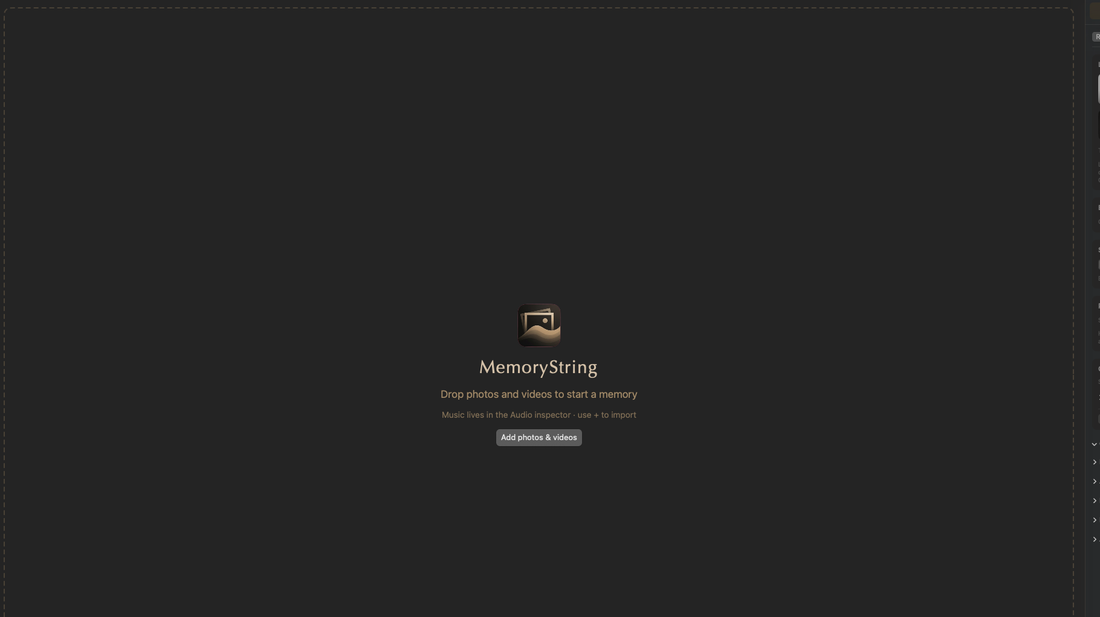
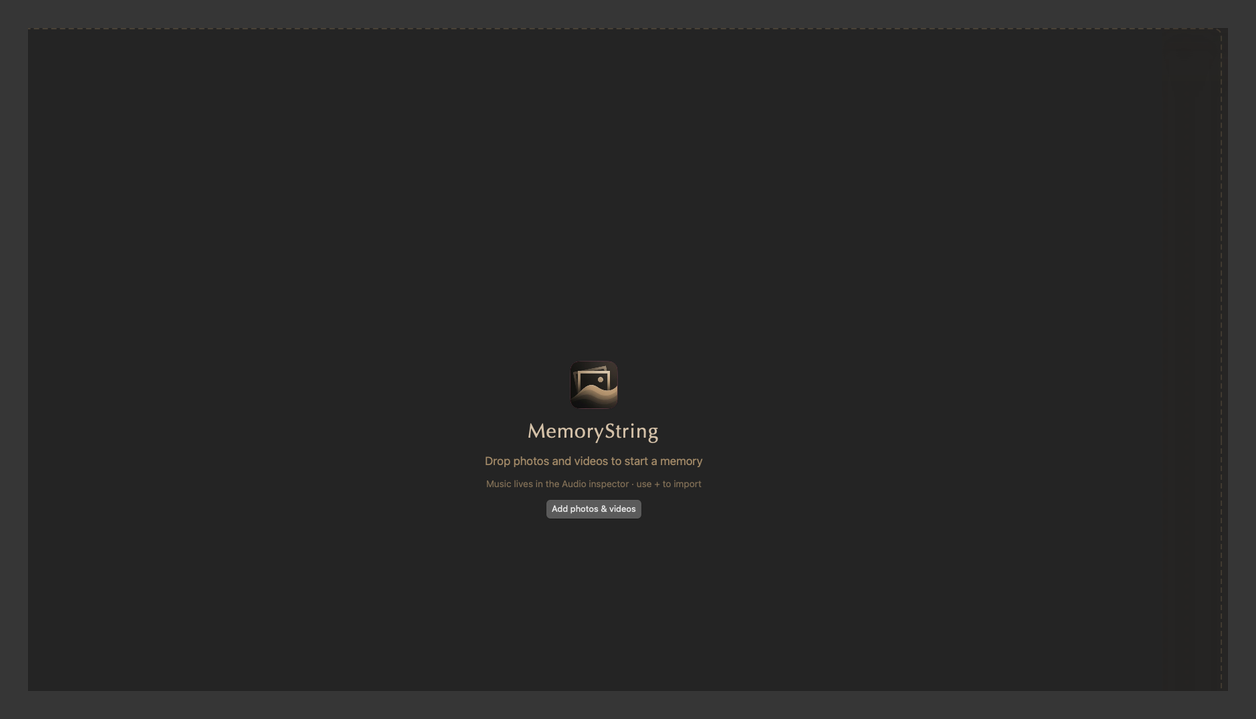
Give GitBook screenshots more side margin so controls aren't clipped.
Retook crops from the live Mac app and added a gutter around inspector, toolbar, transport, dialogs, and context menus.

diff --git a/workspace/essential-studio.md b/workspace/essential-studio.md
@@ -2,9 +2,21 @@
 
 The toolbar segmented control switches **Essential** and **Studio**. Same project; Studio shows more knobs.
 
-![Essential / Studio on the toolbar](../.gitbook/assets/toolbar-right.png)
+![Essential selected on the toolbar](../.gitbook/assets/toolbar-essential.png)
 
-**View → Switch to Studio Mode** / **Switch to Essential Mode** (**⇧⌘S**) does the same.
+![Studio selected on the toolbar](../.gitbook/assets/toolbar-right.png)
+
+**View → Switch to Studio Mode** / **Switch to Essential Mode** does the same.
+
+## Inspector tabs
+
+Essential keeps **Style, Intro, Audio, Format**. Studio adds **Motion**.
+
+![Essential inspector tabs](../.gitbook/assets/inspector-essential-tabs.png)
+
+![Studio inspector tabs](../.gitbook/assets/inspector-tabs.png)
+
+![Essential Style inspector](../.gitbook/assets/inspector-essential-style.png)
 
 ## What changes
 
